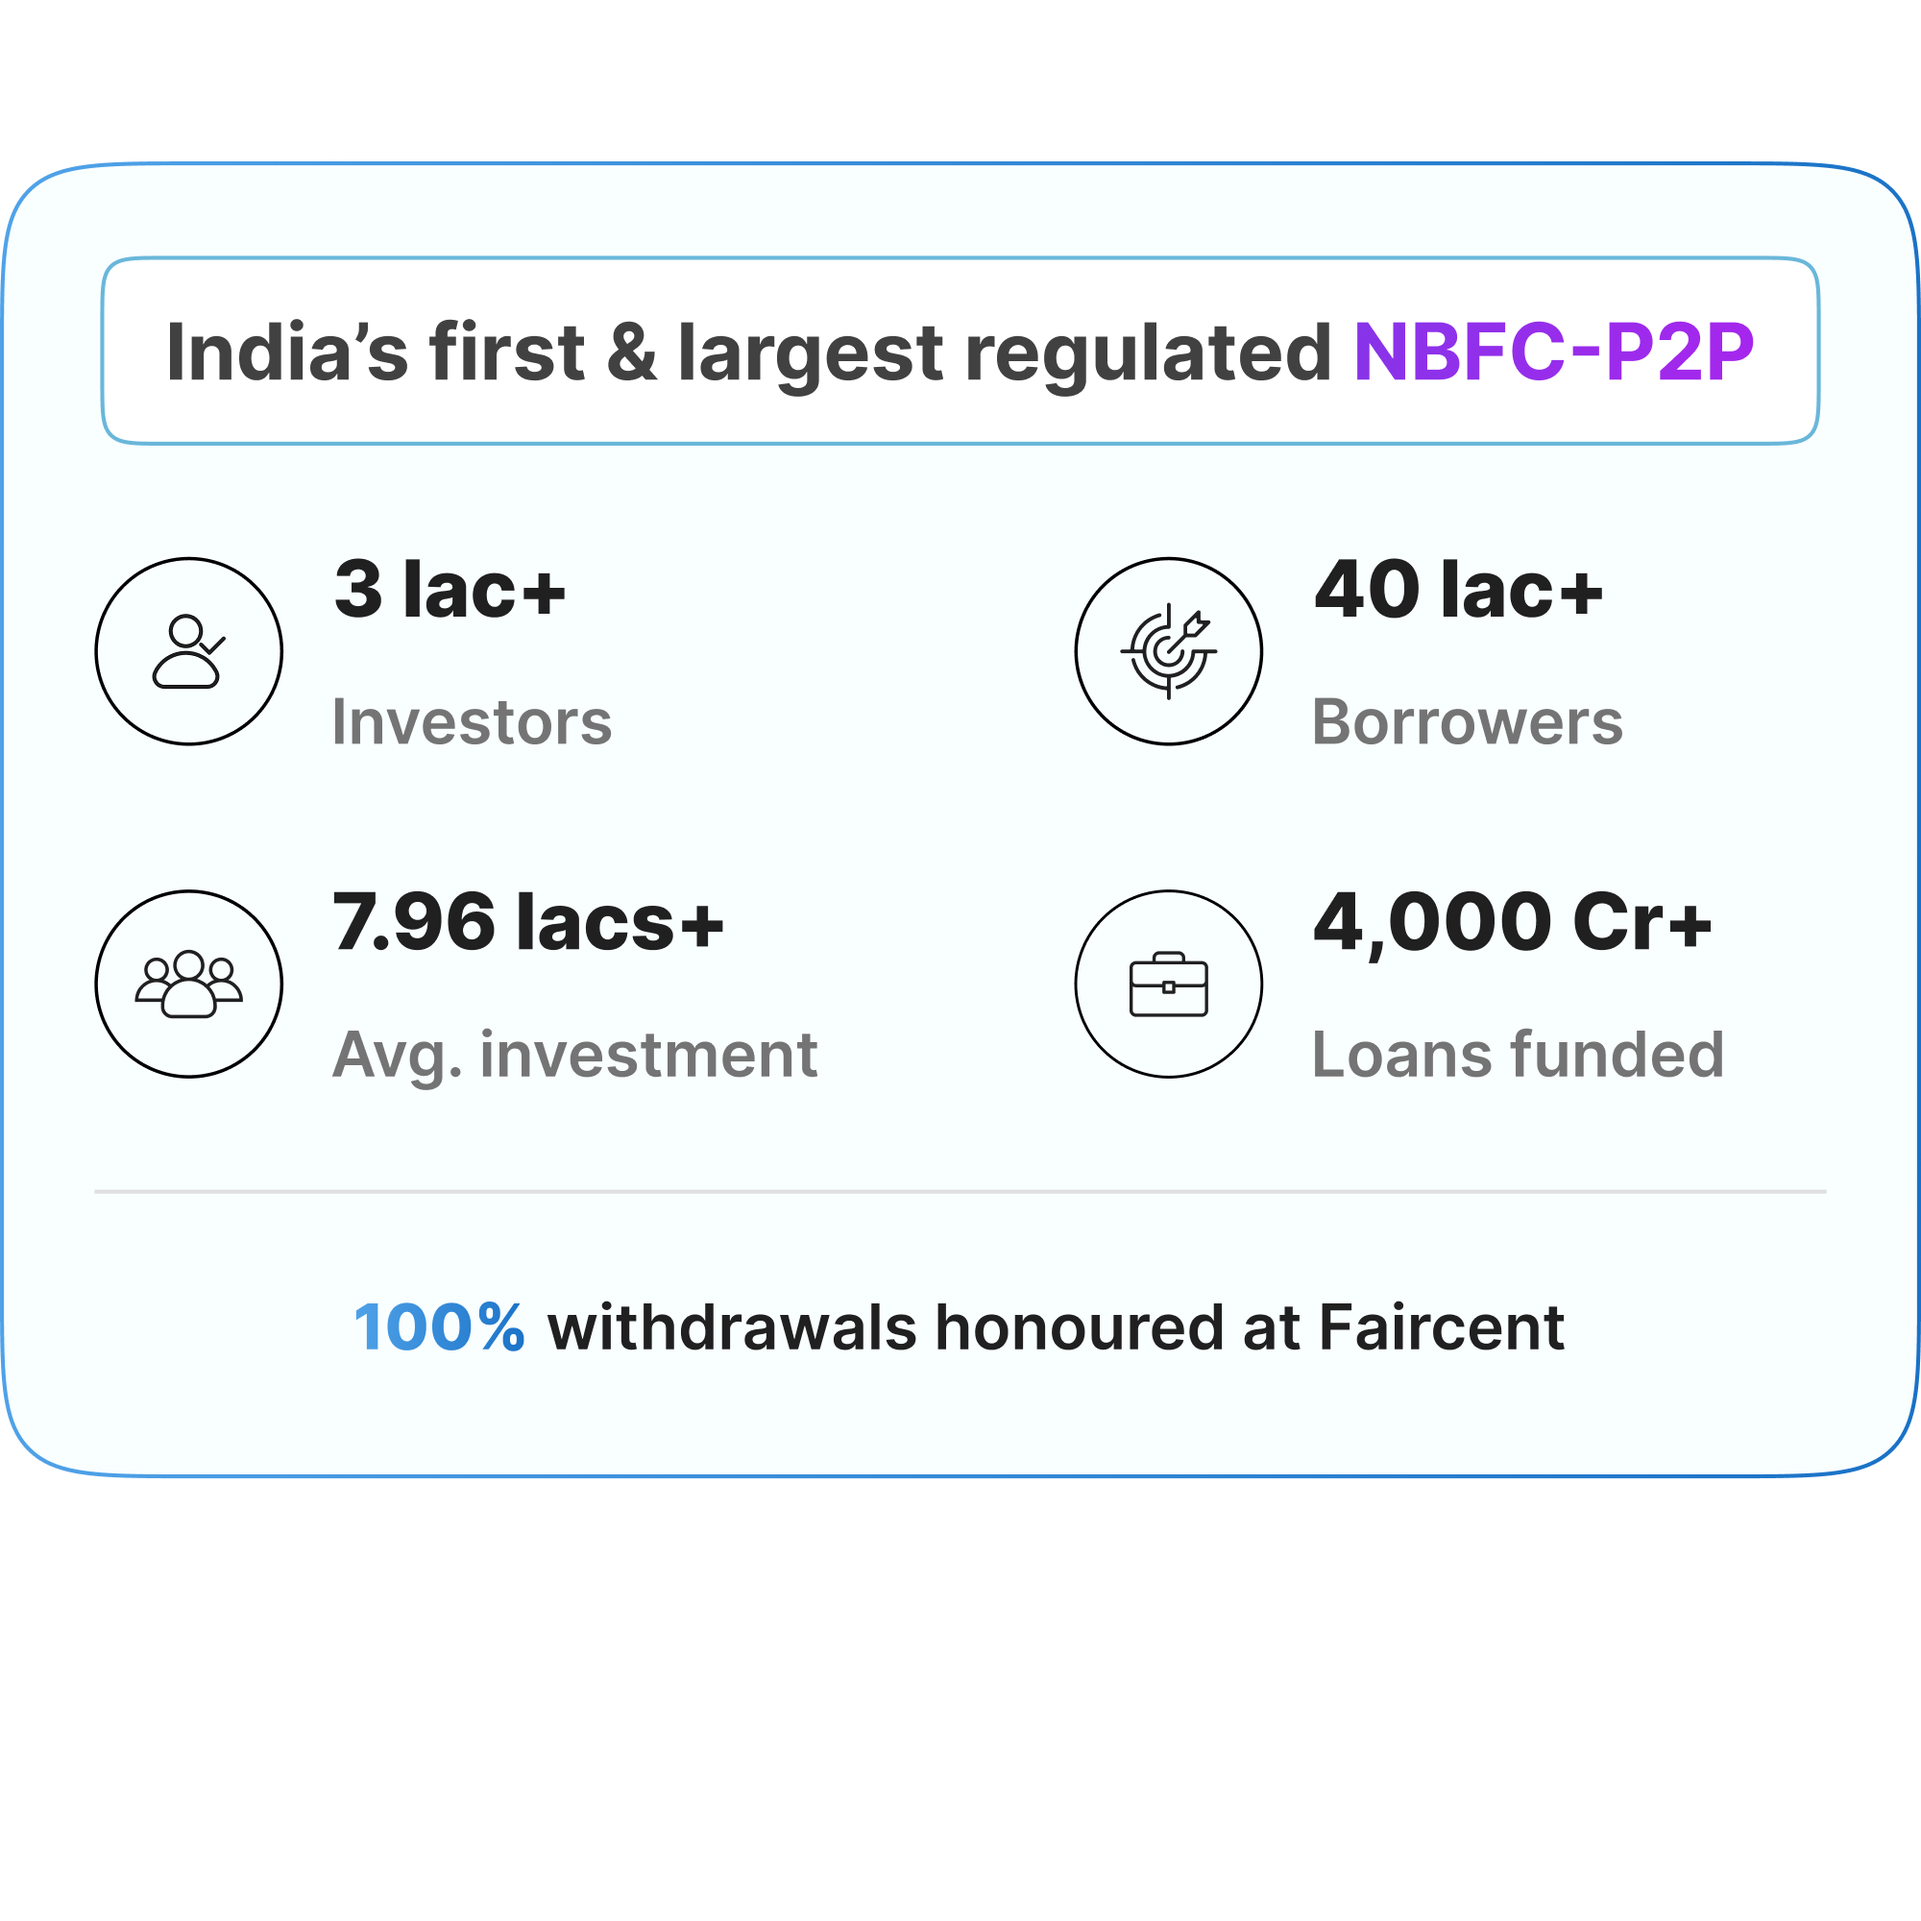
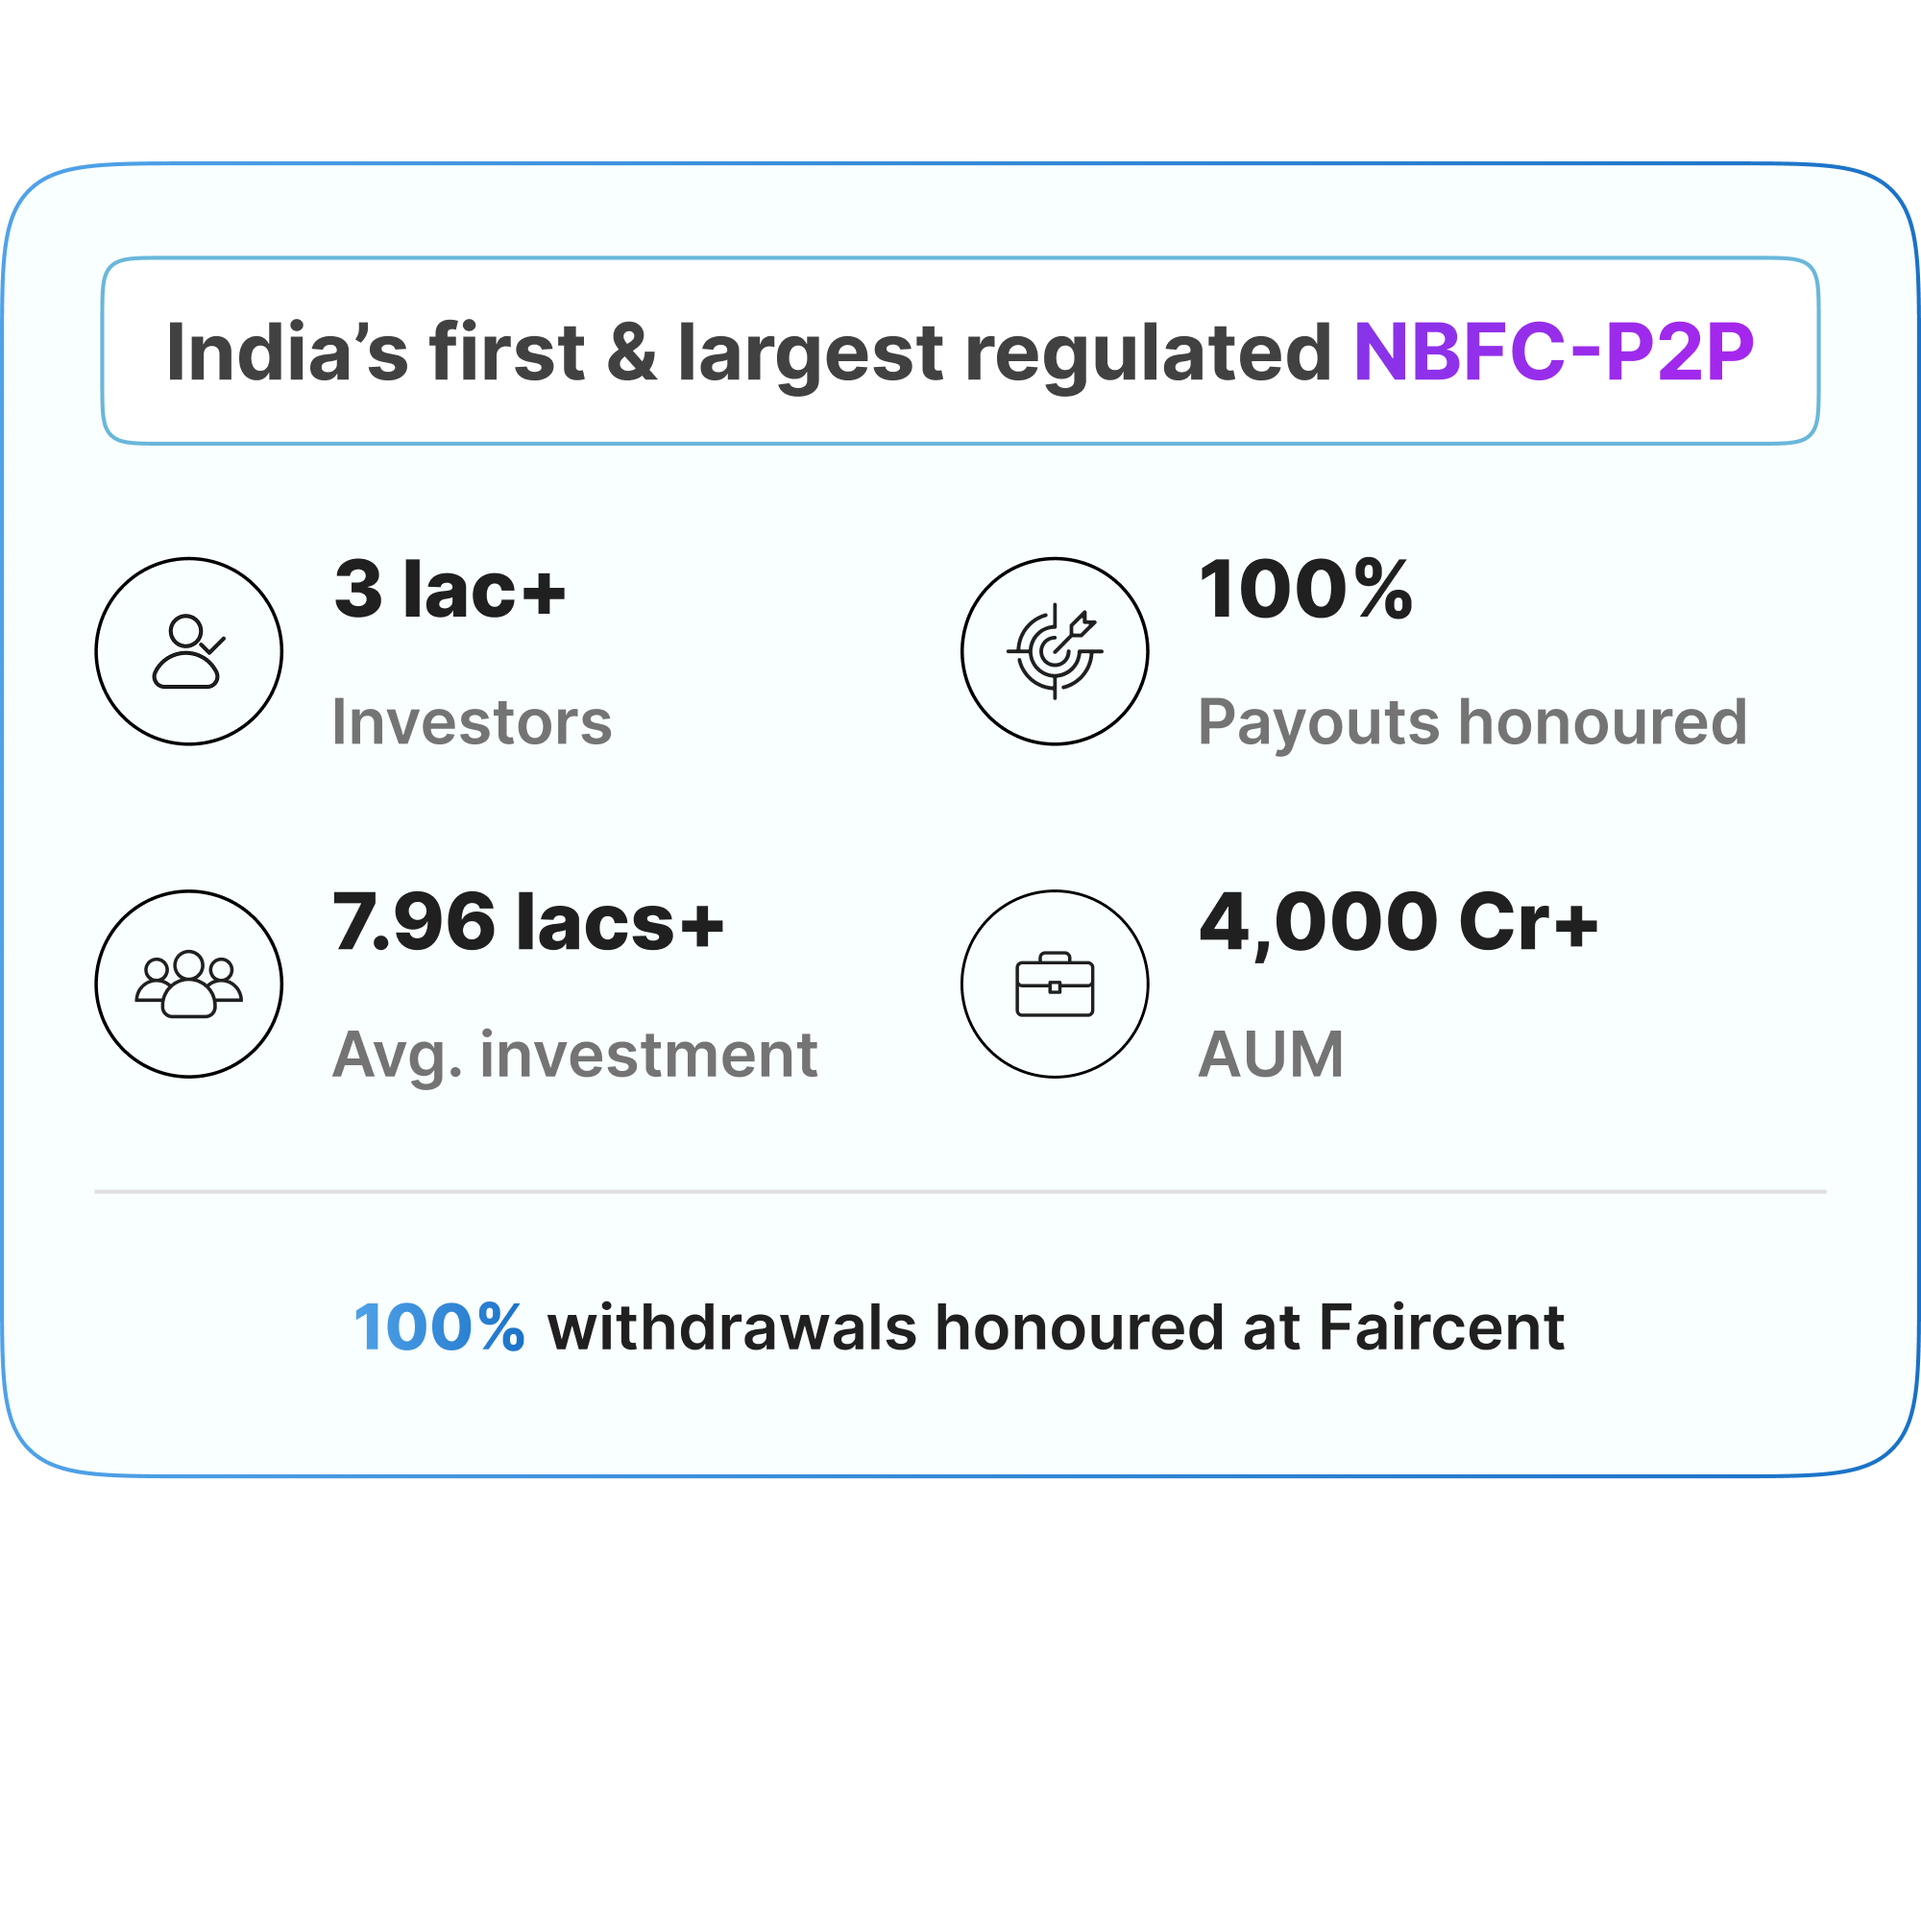
bug fixed

diff --git a/src/components/Stocks/IdeasSection.js b/src/components/Stocks/IdeasSection.js
@@ -15,6 +15,17 @@ import { AiOutlineInfoCircle } from "react-icons/ai";
 import { popUp } from '../../elements/PopUp/SEBIPopUp';
 
 
+const getClass = (term) => {
+    switch (term) {
+        case 'SHORT':
+            return 'text-[#98520B] border-[#98520B]';
+        case 'MEDIUM':
+            return 'text-[#00439D] border-[#00439D]';
+        case 'LONG':
+            return 'text-[#005251] border-[#005251]';
+    }
+}
+
 const fetcher = (...args) => fetch(...args).then((res) => res.json())
 export default function IdeasSection({ isDark = false }) {
     const { data, isLoading } = useSWR(`${process.env.apiBaseURL}/resources/trade-cards/hit`, fetcher)
@@ -98,8 +109,13 @@ export default function IdeasSection({ isDark = false }) {
                             >
                                 {[...data?.data?.list, ...data?.data?.list,]?.map((ele, i) =>
                                     <SwiperSlide key={`${ele.id}-${i}`} >
-                                        <div className="overflow-hidden flex flex-col justify-between h-full w-full bg-fixed bg-[length:144px_164px] " style={{ backgroundImage: `url(${mini_trade_card.src})` }} >
-                                            <span className="mt-9 ml-3 text-[8px] font-medium text-[#606060]">
+                                        <div className="overflow-hidden flex flex-col justify-between h-full w-full bg-fixed bg-[length:144px_164px] "
+                                        //  style={{ backgroundImage: `url(${mini_trade_card.src})` }} 
+                                        >
+                                            <div className={`mt-3 ml-3 text-[8px] font-medium border w-[50px] rounded-full text-center ${getClass(ele.term)}`}>
+                                                {ele.term}
+                                            </div>
+                                            <span className="ml-3 text-[8px] font-medium text-[#606060]">
                                                 Shared on {moment(ele.createdAt).format("DD MMM YYYY")}
                                             </span>
                                             <div className="flex ml-3">
@@ -122,7 +138,7 @@ export default function IdeasSection({ isDark = false }) {
                                                 Target hit
                                             </div>
                                             <div className="mb-2 text-[#747474] text-[10px] text-center">
-                                                Net gain <span className="text-[#26A649] text-sm font-extrabold">{((ele?.targetPrice - ele?.suggestedPrice) * 100 / ele?.targetPrice)?.toFixed(2)}%</span>
+                                                Net gain <span className="text-[#26A649] text-sm font-extrabold">{ele?.netGain?.toFixed(2)}%</span>
                                             </div>
                                         </div>
                                     </SwiperSlide>)}

diff --git a/src/components/ElitePage2/EliteHeroSectionNew.js b/src/components/ElitePage2/EliteHeroSectionNew.js
@@ -51,8 +51,8 @@ export default function EliteHeroSectionNew({ homePage }) {
                                 <Image className="w-10" src={briefcaseIcon} alt="demo" />
                             </div>
                             <div className="flex flex-col gap-1">
-                                <p className="text-[color:var(--neutral-900,#202020)]  text-sm not-italic font-extrabold leading-[153%]">40 lac+</p>
-                                <p className="text-[color:var(--neutral-800,#414141)] text-[10px] not-italic font-semibold leading-4">Borrowers</p>
+                                <p className="text-[color:var(--neutral-900,#202020)]  text-sm not-italic font-extrabold leading-[153%]">100%</p>
+                                <p className="text-[color:var(--neutral-800,#414141)] text-[10px] not-italic font-semibold leading-4">Payouts honoured</p>
                             </div>
                         </div>
                         <div className="flex items-center gap-2">
@@ -70,7 +70,7 @@ export default function EliteHeroSectionNew({ homePage }) {
                             </div>
                             <div className="flex flex-col gap-1">
                                 <p className="text-[color:var(--neutral-900,#202020)]  text-sm not-italic font-extrabold leading-[153%]">4,000 Cr+</p>
-                                <p className="text-[color:var(--neutral-800,#414141)] text-[10px] not-italic font-semibold leading-4">Loans funded</p>
+                                <p className="text-[color:var(--neutral-800,#414141)] text-[10px] not-italic font-semibold leading-4">AUM</p>
                             </div>
                         </div>
                     </div>
